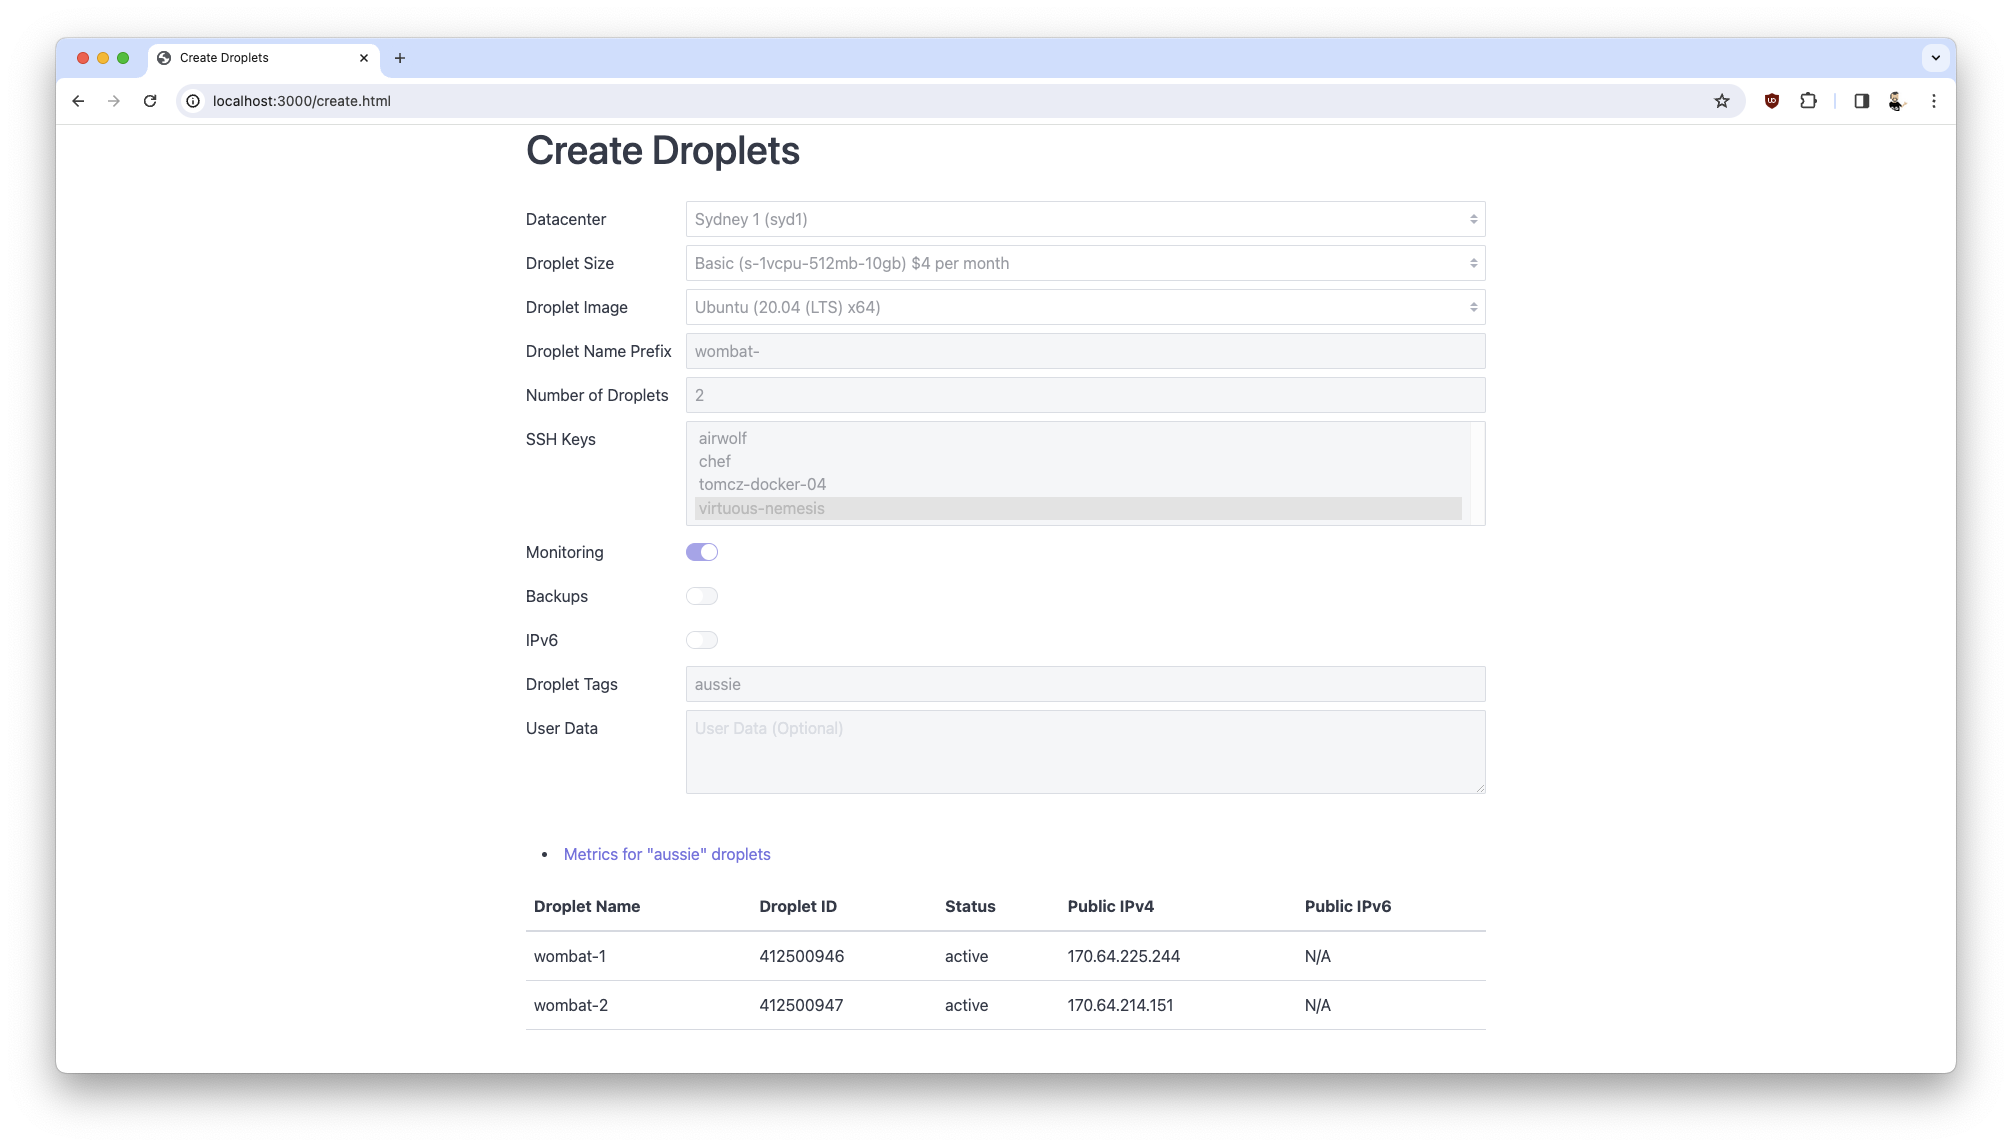
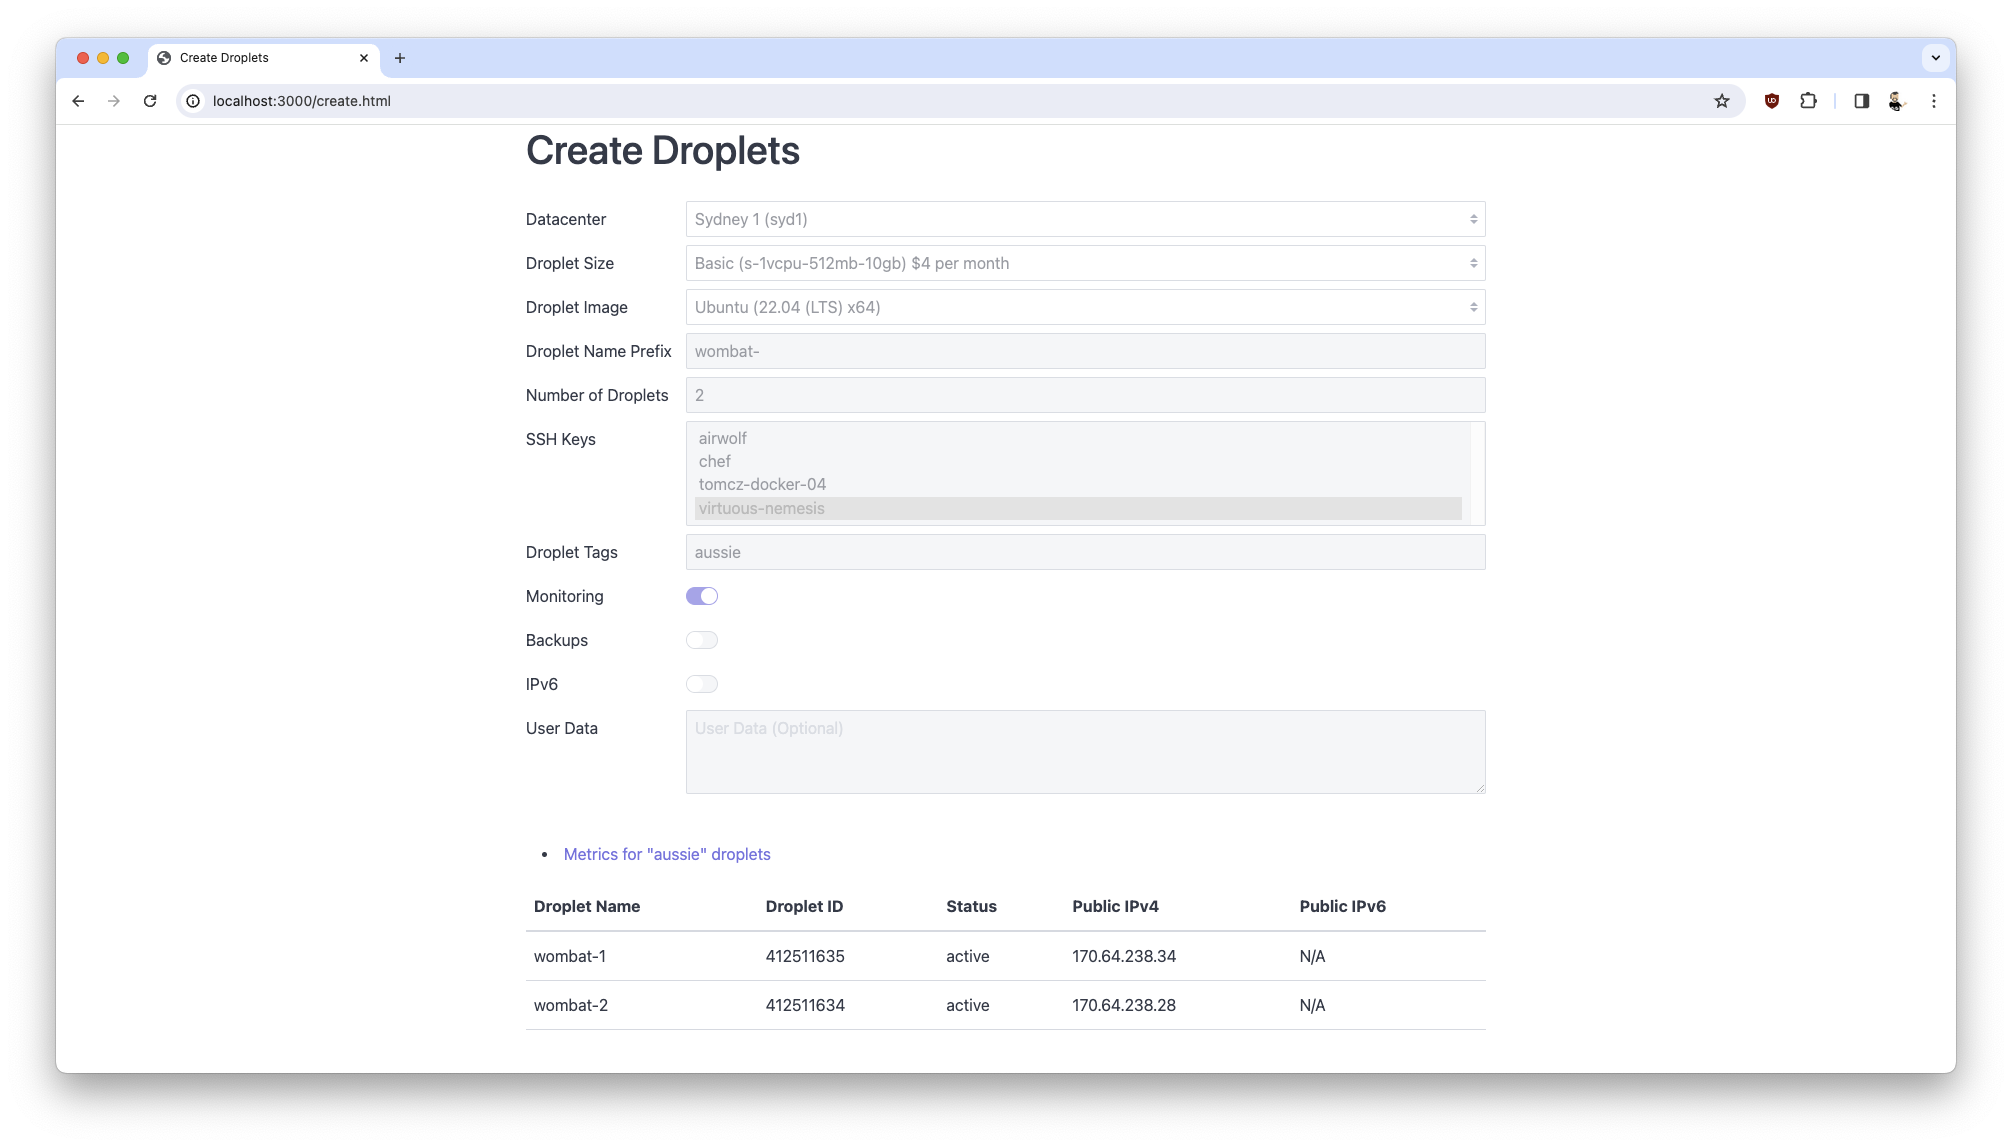
droplet tags are required for metrics links to work

diff --git a/public/create.html b/public/create.html
@@ -78,7 +78,19 @@
               <option value="">Loading ...</option>
             </select>
             <p class="form-input-hint d-hide">
-              Please select at least one SSH key or you will not be able to access your droplets.
+              Please select at least one SSH key, or you will not be able to access your droplets.
+            </p>
+          </div>
+        </div>
+        <div class="form-group">
+          <div class="col-2">
+            <label class="form-label" for="create-droplets-tags">Droplet Tags</label>
+          </div>
+          <div class="col-10">
+            <input id="create-droplets-tags" class="form-input" type="text"
+                   placeholder="Comma-separated tags (Required)">
+            <p class="form-input-hint d-hide">
+              Please provide at least one tag, or you will not be able to monitor your droplets here.
             </p>
           </div>
         </div>
@@ -117,15 +129,6 @@
         </div>
         <div class="form-group">
           <div class="col-2">
-            <label class="form-label" for="create-droplets-tags">Droplet Tags</label>
-          </div>
-          <div class="col-10">
-            <input id="create-droplets-tags" class="form-input" type="text"
-                   placeholder="Comma-separated tags (Optional)">
-          </div>
-        </div>
-        <div class="form-group">
-          <div class="col-2">
             <label class="form-label" for="create-droplets-userdata">User Data</label>
           </div>
           <div class="col-10">
@@ -145,13 +148,11 @@
   <section id="created-droplets" style="margin-bottom: 2em"></section>
 </div>
 <script id="created-droplets-template" type="text/template">
-  {{#has_tags}}
   <ul>
     {{#tags}}
     <li><a href="{{href}}" target="_blank">Metrics for "{{name}}" droplets</a></li>
     {{/tags}}
   </ul>
-  {{/has_tags}}
   <table class="table">
     <thead>
     <tr>

diff --git a/public/create.js b/public/create.js
@@ -168,6 +168,9 @@ function parseCreateForm() {
   if (!!tagsTxt) {
     tags = tagsTxt.split(",").map((txt) => txt.trim()).filter((txt) => !!txt)
   }
+  if (tags.length === 0) {
+    errors.push("#create-droplets-tags");
+  }
   const userdata = $("#create-droplets-userdata").val().trim();
   const monitoring = $("#create-droplets-monitoring").is(":checked");
   const backups = $("#create-droplets-backups").is(":checked");
@@ -198,6 +201,7 @@ function createRequests(form) {
       size: form.size,
       image: form.image,
       ssh_keys: form.ssh,
+      tags: form.tags,
     };
     if (form.monitoring) {
       droplet["monitoring"] = true;
@@ -207,9 +211,6 @@ function createRequests(form) {
     }
     if (form.ipv6) {
       droplet["ipv6"] = true;
-    }
-    if (form.tags.length > 0) {
-      droplet["tags"] = form.tags;
     }
     if (!!form.userdata) {
       droplet["user_data"] = form.userdata;
@@ -231,7 +232,6 @@ function renderCreatedDroplets(form, requests) {
   });
   const data = {
     tags: tags,
-    has_tags: tags.length > 0,
     requests: requests,
   };
   const tmpl = $("#created-droplets-template").text();
